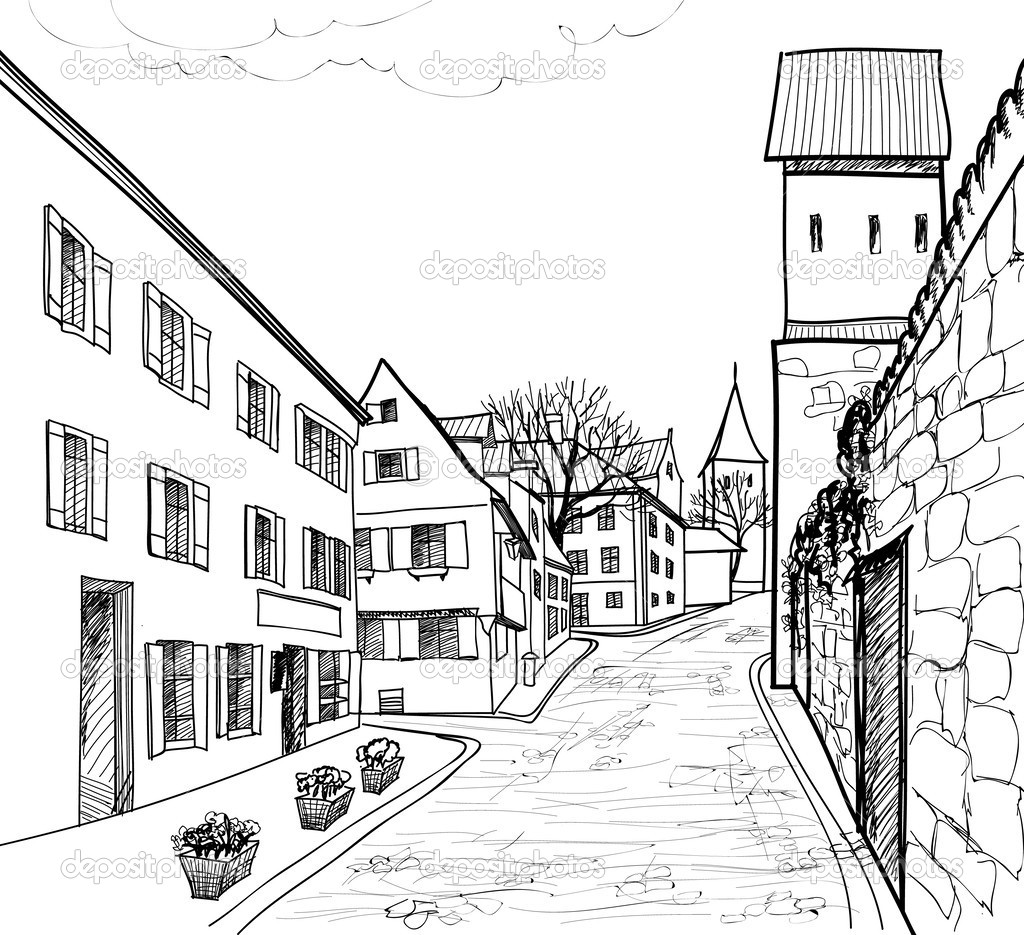
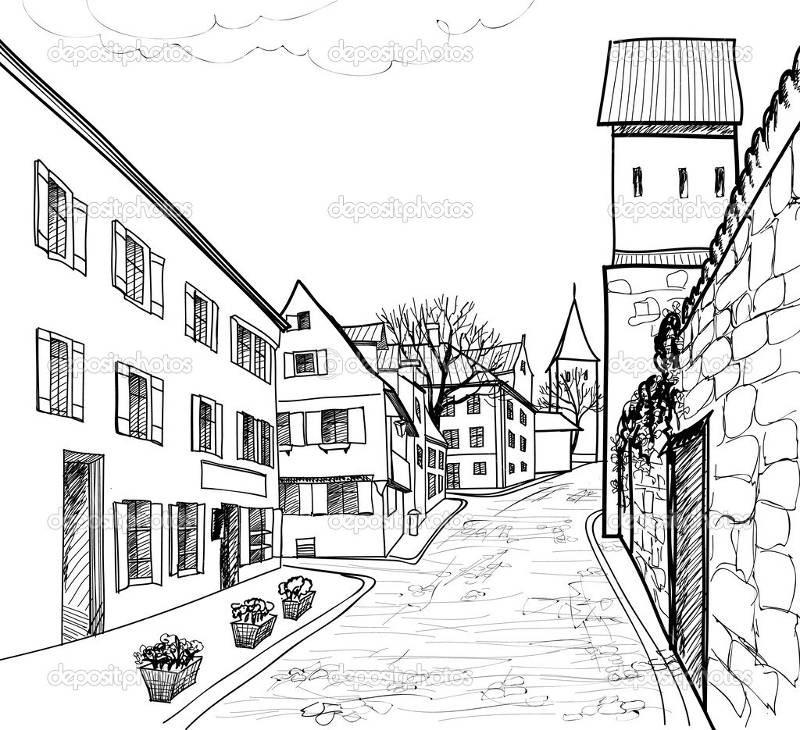
Reduce images

diff --git a/build/blog/2016/04/26/80-porcento-dos-presos-brasileiros-so-possuem-ensino-fundamental.html b/build/blog/2016/04/26/80-porcento-dos-presos-brasileiros-so-possuem-ensino-fundamental.html
@@ -197,7 +197,7 @@ j=d.createElement(s),dl=l!='dataLayer'?'&l='+l:'';j.async=true;j.src=
             <div class="blog-header-caption">
               <h1>80% dos presos brasileiros só possuem ensino fundamental</h1>
             </div>
-            <img src="/images/blog/perfil-do-preso-brasileiro-1024.png" alt="">
+            <img src="/images/blog/perfil-do-preso-brasileiro-1024.gif" alt="">
           </div>
         </div>
       </div>
@@ -385,7 +385,7 @@ Podemos dizer que o salário que menos paga (mil reais), nesta rua, paga 20 veze
 <p>De qualquer maneira, tanto a violência, quanto o índice de Gini, estão dentre os piores valores do mundo na América Latina. Ou seja, a América Latina é responsável pela maior parcela dos assassinatos mundiais, bem como possui quase em sua totalidade os piores índices de Gini em relação à média mundial.</p>
 
 <figure data-feedback="fb:likes, fb:comments">
-  <img src="http://mapadaseguranca.com/images/blog/indice-gini-e-violencia.png" width="100%" height="auto" />
+  <img src="http://mapadaseguranca.com/images/blog/indice-gini-e-violencia.gif" width="100%" height="auto" />
   <figcaption>
   	<h1>Índices de violência (em azul) e índices de Gini (vermelho/verde) no mundo.</h1>
   	<p>Quanto mais azul escuro, mais violento. Quanto mais vermelho, mais desigual.</p>

diff --git a/build/blog/2016/06/11/terra-de-ninguem.html b/build/blog/2016/06/11/terra-de-ninguem.html
@@ -247,7 +247,7 @@ j=d.createElement(s),dl=l!='dataLayer'?'&l='+l:'';j.async=true;j.src=
 <p>Os moradores das regiões vulneráveis brasileiras possuem "visto de trabalho", trabalho barato, para acessar as boas ruas brasileiras. Da mesma maneira como ocorre com muitos mexicanos, entre outros imigrantes vulneráveis, dentro dos EUA. Como apresenta o filme.</p>
 
 <figure data-mode="aspect-fit">
-  <img src="http://mapadaseguranca.com/images/blog/muros.jpg" width="100%" height="auto" />
+  <img src="http://mapadaseguranca.com/images/blog/muros-1920.jpg" width="100%" height="auto" />
   <figcaption>
   	<h1>Muros altos.</h1>
  		Físico e bem vigiado entre México e EUA, de preços e salários - e bem vigiado - entre dois Brasis.
